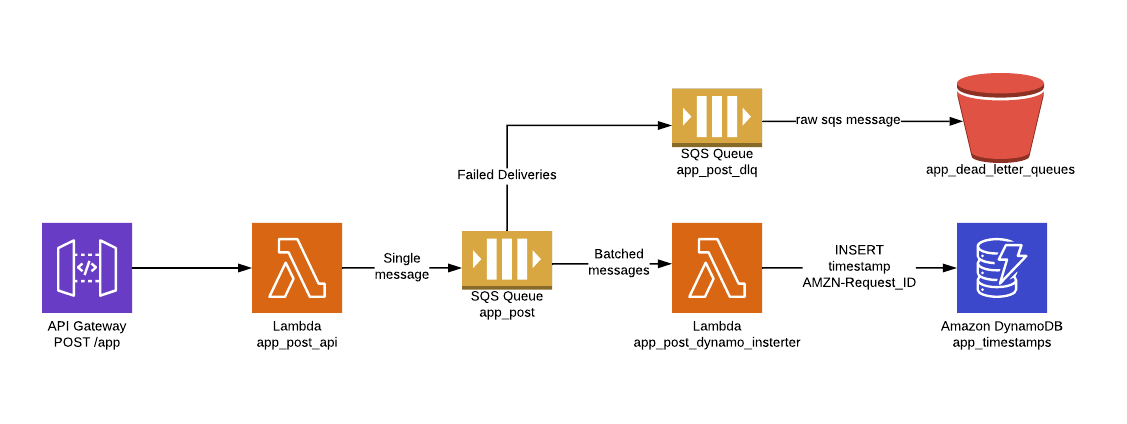
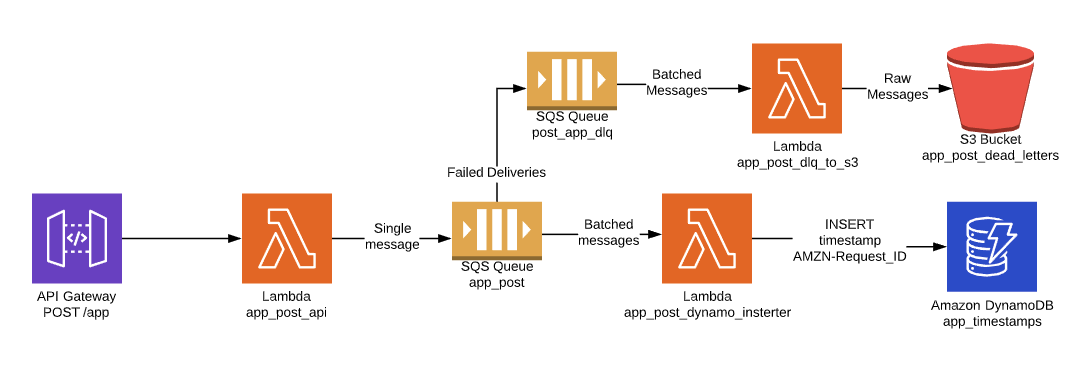
Minor system-design update to include Lamdba to save DLQ to s3

Changed region(s): [[0.0305, 0.5109, 0.9769, 0.9016], [0.4579, 0.1202, 0.9769, 0.4809], [0.3969, 0.3907, 0.519, 0.5109]]

diff --git a/docs/system-design.md b/docs/system-design.md
@@ -98,7 +98,7 @@ better still (such as SignalFx or DataDog)).
   or too few requests. As with error rates historical trend analysis can help here, but you need an established baseline
   over a statistically significant period.
   * Duration of requests
-* AWS Lambdas (both Lambdas)
+* AWS Lambdas (all 3)
   * Errors - The number of invocations that resulted in an error
   * Throttles - The number of times AWS throttled your invocations (which do not show up as errors in the Errors count)
   * Duration - How long the lambda executions took
